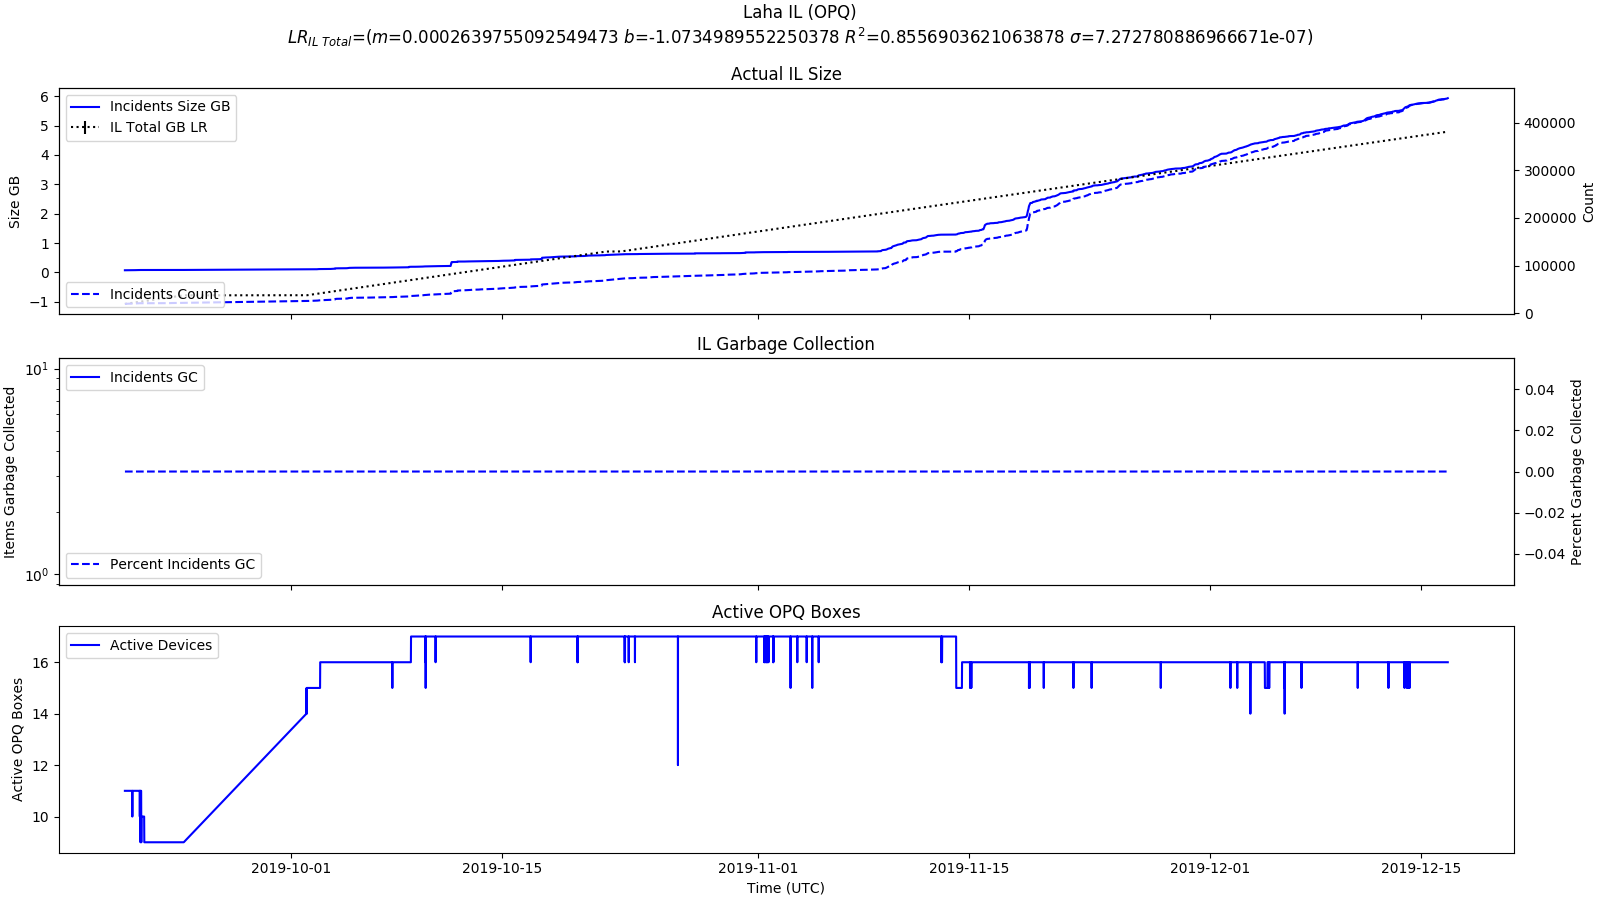
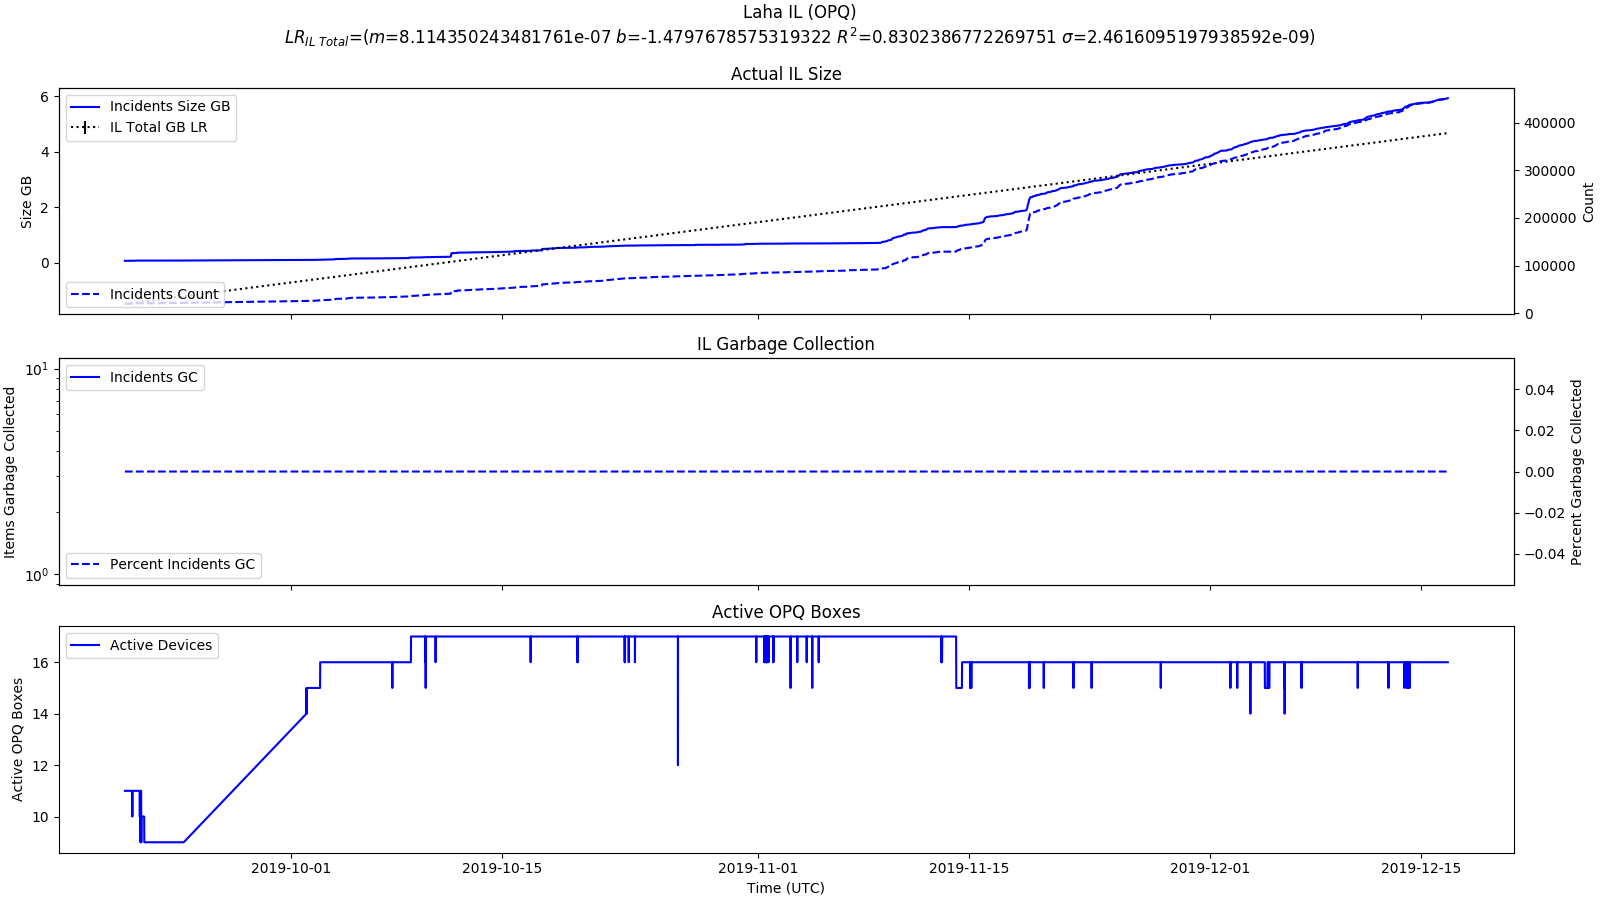
Fix linear regressions.

Changed region(s): [[0.0625, 0.1244, 0.8438, 0.3422], [0.1875, 0.0311, 0.8438, 0.0622], [0.0, 0.1867, 0.0312, 0.2489]]

diff --git a/plotting/opq/actual_data.py b/plotting/opq/actual_data.py
@@ -436,7 +436,7 @@ def plot_iml(laha_stat_dts: np.ndarray,
 
 
 def slope_intercept(slope: float, intercept: float) -> str:
-    return f"y = {slope} * t + {intercept}"
+    return f"y = {slope} * x + {intercept}"
 
 
 def plot_aml(laha_stat_dts: np.ndarray,
@@ -456,20 +456,20 @@ def plot_aml(laha_stat_dts: np.ndarray,
     ax: List[plt.Axes] = ax
 
     xs = np.array(list(map(lambda dt: dt.timestamp(), laha_stat_dts)))
+    xs = xs - xs[0]
     slope, intercept, r_value, p_value, std_err = stats.linregress(xs, total_gb)
-    print("aml", slope_intercept(slope, intercept))
+    print("aml", slope_intercept(slope, intercept), total_gb[0])
 
     fig.suptitle(f"Laha AML (OPQ)\n"
-                 f"$LR_{{AML\ Total}}$=($m$={slope} $b$={intercept} $R^2$={r_value**2} $\sigma$={std_err})")
-
-    print(slope, intercept, r_value, p_value, std_err)
+                 f"$LR_{{AML\ Total}}$=($m$={slope} $b$={intercept} $R^2$={r_value ** 2} $\sigma$={std_err})")
 
     # Size
     ax_size = ax[0]
     ax_size.plot(laha_stat_dts, measurements_gb, label="Measurements Size GB", color="blue")
     ax_size.plot(laha_stat_dts, trends_gb, label="Trends Size GB", color="green")
     ax_size.plot(laha_stat_dts, total_gb, label="AML Total GB", color="red")
-    ax_size.errorbar(laha_stat_dts, intercept + slope*xs, yerr=std_err, label="AML Total GB LR", color="black", linestyle=":")
+    ax_size.errorbar(laha_stat_dts, intercept + slope * xs, yerr=std_err, label="AML Total GB LR", color="black",
+                     linestyle=":")
     ax_size.set_ylabel("Size GB")
     ax_size.set_title("Actual AML Size")
     ax_size.legend(loc="upper left")
@@ -534,17 +534,19 @@ def plot_dl(laha_stat_dts: np.ndarray,
     fig: plt.Figure = fig
     ax: List[plt.Axes] = ax
 
-    xs = np.array(list(range(len(laha_stat_dts))))
+    xs = np.array(list(map(lambda dt: dt.timestamp(), laha_stat_dts)))
+    xs = xs - xs[0]
     slope, intercept, r_value, p_value, std_err = stats.linregress(xs, events_gb)
-    print("dl", slope_intercept(slope, intercept))
+    print("dl", slope_intercept(slope, intercept), events_gb[0])
 
     fig.suptitle("Laha DL (OPQ)\n"
-                 f"$LR_{{DL\ Total}}$=($m$={slope} $b$={intercept} $R^2$={r_value**2} $\sigma$={std_err})")
+                 f"$LR_{{DL\ Total}}$=($m$={slope} $b$={intercept} $R^2$={r_value ** 2} $\sigma$={std_err})")
 
     # Size
     ax_size = ax[0]
     ax_size.plot(laha_stat_dts, events_gb, label="Events Size GB", color="blue")
-    ax_size.errorbar(laha_stat_dts, intercept + slope*xs, yerr=std_err, label="DL Total GB LR", color="black", linestyle=":")
+    ax_size.errorbar(laha_stat_dts, intercept + slope * xs, yerr=std_err, label="DL Total GB LR", color="black",
+                     linestyle=":")
     ax_size.set_ylabel("Size GB")
     ax_size.set_title("Actual DL Size")
     ax_size.legend(loc="upper left")
@@ -599,17 +601,19 @@ def plot_il(laha_stat_dts: np.ndarray,
     fig: plt.Figure = fig
     ax: List[plt.Axes] = ax
 
-    xs = np.array(list(range(len(laha_stat_dts))))
+    xs = np.array(list(map(lambda dt: dt.timestamp(), laha_stat_dts)))
+    xs = xs - xs[0]
     slope, intercept, r_value, p_value, std_err = stats.linregress(xs, incidents_gb)
-    print("il", slope_intercept(slope, intercept))
+    print("il", slope_intercept(slope, intercept), incidents_gb[0])
 
     fig.suptitle("Laha IL (OPQ)\n"
-                 f"$LR_{{IL\ Total}}$=($m$={slope} $b$={intercept} $R^2$={r_value**2} $\sigma$={std_err})")
+                 f"$LR_{{IL\ Total}}$=($m$={slope} $b$={intercept} $R^2$={r_value ** 2} $\sigma$={std_err})")
 
     # Size
     ax_size = ax[0]
     ax_size.plot(laha_stat_dts, incidents_gb, label="Incidents Size GB", color="blue")
-    ax_size.errorbar(laha_stat_dts, intercept + slope*xs, yerr=std_err, label="IL Total GB LR", color="black", linestyle=":")
+    ax_size.errorbar(laha_stat_dts, intercept + slope * xs, yerr=std_err, label="IL Total GB LR", color="black",
+                     linestyle=":")
     ax_size.set_ylabel("Size GB")
     ax_size.set_title("Actual IL Size")
     ax_size.legend(loc="upper left")
@@ -666,12 +670,13 @@ def plot_laha(laha_stat_dts: np.ndarray,
     fig: plt.Figure = fig
     ax: plt.Axes = ax
 
-    xs = np.array(list(range(len(laha_stat_dts))))
+    xs = np.array(list(map(lambda dt: dt.timestamp(), laha_stat_dts)))
+    xs = xs - xs[0]
     slope, intercept, r_value, p_value, std_err = stats.linregress(xs, total_gb)
-    print("laha", slope_intercept(slope, intercept))
+    print("laha", slope_intercept(slope, intercept), total_gb[0])
 
     fig.suptitle("Laha IL (OPQ)\n"
-                 f"$LR_{{Laha\ Total}}$=($m$={slope} $b$={intercept} $R^2$={r_value**2} $\sigma$={std_err})")
+                 f"$LR_{{Laha\ Total}}$=($m$={slope} $b$={intercept} $R^2$={r_value ** 2} $\sigma$={std_err})")
 
     # Size
     size_ax = ax
@@ -680,7 +685,8 @@ def plot_laha(laha_stat_dts: np.ndarray,
     size_ax.plot(laha_stat_dts, dl_gb, label="DL Total")
     size_ax.plot(laha_stat_dts, il_gb, label="IL Total")
     size_ax.plot(laha_stat_dts, total_gb, label="Total")
-    size_ax.errorbar(laha_stat_dts, intercept + slope*xs, yerr=std_err, label="Laha Total GB LR", color="black", linestyle=":")
+    size_ax.errorbar(laha_stat_dts, intercept + slope * xs, yerr=std_err, label="Laha Total GB LR", color="black",
+                     linestyle=":")
 
     size_ax.set_yscale("log")
     size_ax.set_ylabel("Size GB")
@@ -876,7 +882,6 @@ def plot_dl_vs_no_tll(laha_dts: np.ndarray,
                       laha_events_gb: np.ndarray,
                       est_events_gb: np.ndarray,
                       out_dir: str) -> None:
-
     # Plot
     fig, ax = plt.subplots(3, 1, figsize=(16, 9), sharex="all", constrained_layout=True, sharey="all")
     fig: plt.Figure = fig
@@ -1243,7 +1248,7 @@ def plot_laha_vs_sim(laha_stat_dts: np.ndarray,
     fig.savefig(f"{out_dir}/actual_laha_vs_sim_opq.png")
 
 
-if __name__ == "__main__":
+def main():
     # mongo_client: pymongo.MongoClient = pymongo.MongoClient()
     # laha_stats: List[LahaStat] = get_laha_stats(mongo_client)
     # save_laha_stats(laha_stats, "laha_stats.pickle.db")
@@ -1297,7 +1302,8 @@ if __name__ == "__main__":
     # aligned_laha_measurements_bytes: np.ndarray = np.array(
     #         list(map(lambda measurement: measurement.size_bytes, aligned_laha_measurements)))
     # aligned_laha_measurements_gb: np.ndarray = aligned_laha_measurements_bytes / 1_000_000_000.0
-    # aligned_laha_measurements_gb_zero_offset: np.ndarray = aligned_laha_measurements_gb - aligned_laha_measurements_gb[
+    # aligned_laha_measurements_gb_zero_offset: np.ndarray = aligned_laha_measurements_gb -
+    # aligned_laha_measurements_gb[
     #     0]
     #
     # aligned_laha_trends: List[LahaMetric] = list(
@@ -1432,12 +1438,14 @@ if __name__ == "__main__":
     # aligned_laha_est_measurements_bytes: np.ndarray = np.array(
     #         list(map(lambda measurement: measurement.size_bytes, aligned_laha_est_measurements)))
     # aligned_laha_est_measurements_gb: np.ndarray = aligned_laha_est_measurements_bytes / 1_000_000_000.0
-    # aligned_laha_est_measurements_gb_zero_offset: np.ndarray = aligned_laha_est_measurements_gb - aligned_laha_est_measurements_gb[
+    # aligned_laha_est_measurements_gb_zero_offset: np.ndarray = aligned_laha_est_measurements_gb -
+    # aligned_laha_est_measurements_gb[
     #     0]
     #
     # aligned_laha_est_trends: List[LahaMetric] = list(
     #         map(lambda laha_est_stat: map_laha_metric(laha_est_stat, "trends"), aligned_laha_est_stats))
-    # aligned_laha_est_trends_bytes: np.ndarray = np.array(list(map(lambda trend: trend.size_bytes, aligned_laha_est_trends)))
+    # aligned_laha_est_trends_bytes: np.ndarray = np.array(list(map(lambda trend: trend.size_bytes,
+    # aligned_laha_est_trends)))
     # aligned_laha_est_trends_gb: np.ndarray = aligned_laha_est_trends_bytes / 1_000_000_000.0
     # aligned_laha_est_trends_gb_zero_offset: np.ndarray = aligned_laha_est_trends_gb - aligned_laha_est_trends_gb[0]
     #
@@ -1445,7 +1453,8 @@ if __name__ == "__main__":
     # aligned_laha_est_aml_total_gb_zero_offset: np.ndarray = aligned_laha_est_trends_gb_zero_offset + \
     #                                                     aligned_laha_est_measurements_gb_zero_offset
     #
-    # aligned_est_measurements_b: np.ndarray = np.array(list(map(lambda est_val: est_val.aml_measurements, aligned_est_values)))
+    # aligned_est_measurements_b: np.ndarray = np.array(list(map(lambda est_val: est_val.aml_measurements,
+    # aligned_est_values)))
     # aligned_est_measurements_gb: np.ndarray = aligned_est_measurements_b / 1_000_000_000.0
     #
     # aligned_est_trends_b: np.ndarray = np.array(list(map(lambda est_val: est_val.aml_trends, aligned_est_values)))
@@ -1457,7 +1466,8 @@ if __name__ == "__main__":
     # # Est DL
     # aligned_laha_est_events: List[LahaMetric] = list(
     #         map(lambda laha_est_stat: map_laha_metric(laha_est_stat, "events"), aligned_laha_est_stats))
-    # aligned_laha_est_events_bytes: np.ndarray = np.array(list(map(lambda event: event.size_bytes, aligned_laha_est_events)))
+    # aligned_laha_est_events_bytes: np.ndarray = np.array(list(map(lambda event: event.size_bytes,
+    # aligned_laha_est_events)))
     # aligned_laha_est_events_gb: np.ndarray = aligned_laha_est_events_bytes / 1_000_000_000.0
     # aligned_laha_est_events_gb_offset_zero: np.ndarray = aligned_laha_est_events_gb - aligned_laha_est_events_gb[0]
     #
@@ -1470,7 +1480,8 @@ if __name__ == "__main__":
     # aligned_laha_est_incidents_bytes: np.ndarray = np.array(
     #         list(map(lambda incident: incident.size_bytes, aligned_laha_est_incidents)))
     # aligned_laha_est_incidents_gb: np.ndarray = aligned_laha_est_incidents_bytes / 1_000_000_000.0
-    # aligned_laha_est_incidents_gb_offset_zero: np.ndarray = aligned_laha_est_incidents_gb - aligned_laha_est_incidents_gb[0]
+    # aligned_laha_est_incidents_gb_offset_zero: np.ndarray = aligned_laha_est_incidents_gb -
+    # aligned_laha_est_incidents_gb[0]
     #
     # aligned_est_incidents_total_b: np.ndarray = np.array(list(map(lambda est_val: est_val.il, aligned_est_values)))
     # aligned_est_incidents_total_gb: np.ndarray = aligned_est_incidents_total_b / 1_000_000_000.0
@@ -1480,12 +1491,14 @@ if __name__ == "__main__":
     #                                     aligned_laha_est_events_gb + aligned_laha_est_incidents_gb
     # aligned_laha_est_total_gb_offset_zero: np.ndarray = aligned_laha_est_total_gb - aligned_laha_est_total_gb[0]
     #
-    # aligned_est_total_gb: np.ndarray = aligned_est_iml_total_gb + aligned_est_aml_total_gb + aligned_est_events_total_gb \
+    # aligned_est_total_gb: np.ndarray = aligned_est_iml_total_gb + aligned_est_aml_total_gb +
+    # aligned_est_events_total_gb \
     #                             + aligned_est_incidents_total_gb
     #
     # aligned_laha_est_total_gb_sans_iml: np.ndarray = aligned_laha_est_aml_total_gb + \
     #                                         aligned_laha_est_events_gb + aligned_laha_est_incidents_gb
-    # aligned_laha_est_total_gb_offset_zero_sans_iml: np.ndarray = aligned_laha_est_total_gb_sans_iml - aligned_laha_est_total_gb_sans_iml[0]
+    # aligned_laha_est_total_gb_offset_zero_sans_iml: np.ndarray = aligned_laha_est_total_gb_sans_iml -
+    # aligned_laha_est_total_gb_sans_iml[0]
     #
     # aligned_est_total_gb_sans_iml: np.ndarray = aligned_est_aml_total_gb + aligned_est_events_total_gb \
     #                                    + aligned_est_incidents_total_gb
@@ -1614,3 +1627,7 @@ if __name__ == "__main__":
     #
     # # System resource plots
     # plot_system_resources(laha_stats, out_dir)
+
+
+if __name__ == "__main__":
+    main()

diff --git a/src/results.tex b/src/results.tex
@@ -12,7 +12,7 @@ All results in this section were gathered directly from the OPQ and Lokahi netwo
 
 System utilization metrics were collected during the deployment of the OPQ DSN. The metrics that were collected are provided in the description of the SystemStatsPlugin (Section~\ref{lbl:SystemStatsPlugin}). In summary, I collected metrics on plugin utilization, system resource utilization, garbage collection, tunable Laha parameters, and storage requirements for each level within the Laha hierarchy.
 
-There were several schema changes to the stored metric data, with the most significant change taking place on September 20, 2019. For these results, I only used metrics collected after this date as they contain the most useful data.
+There were several schema changes to the stored metric data, with the most significant change taking place on September 20, 2019. For these results, I only used metrics collected after this date as they contain the most useful data. Because of this, all actual data measurements have an offset that is greater than zero. That is, there was already data stored at each level before I started collecting detailed metrics. This offset is removed from the actual data when comparing to the theoretical data bounds in order to provide a more accurate comparison between the series.
 
 Further, the astute reader will notice that there are often times more than 15 Boxes in the metric data when only 15 Boxes were deployed for the UHM deployment. This is attributed to the fact that several Boxes were sent to the Electric Power Research Institute (EPRI) to evaluate if our Boxes could be used as a test bed for their power quality analysis needs. The metrics collected by Laha are collected for the total set of all Boxes sending to OPQ, and thus, also sometimes include metrics from the Boxes that EPRI are evaluating.
 
@@ -57,8 +57,15 @@ The bottom panel displays the number of active OPQ Boxes over time. It's possibl
 Equation~\ref{eq:aml_si} provides the best fit linear regression for the total AML size in GB with an $R^2$ value = 0.98.
 
 \begin{equation}
-    y = 1.3114190030697152e-07 * x + -205.0594231185633
+    y = 1.3114190030697152e-07 * x + 0.6987665459751351
     \label{eq:aml_si}
+\end{equation}
+
+This linear equation can be used to estimate the total AML data stored per OPQ Box over a given time period $x$. Simply substitute $x$ with the duration in seconds in the above equation, subtract the offset, and then divide by the mean number of active OPQ Boxes (15). Equation~\ref{eq:aml_si_ex} can be used to find the estimated AML size per OPQ Box over a duration of one month (28 days or 2419200 seconds) as follows:
+
+\begin{equation}
+    y = \frac{(1.3114190030697152e-07 * 2419200 + 0.6987665459751351) - 0.58918365}{15}
+    \label{eq:aml_si_ex}
 \end{equation}
 
 I will compare this result to the theoretical results in following sections.
@@ -82,11 +89,18 @@ The middle panel shows the garbage collection statistics for the DL. Of note is 
 
 The bottom panel shows the number of active OPQ Boxes sending data over time.
 
-Equation~\ref{eq:dl_si} provides the best fit linear regression for the total DL size in GB with an $R^2$ value = 0.87.
+Equation~\ref{eq:dl_si} provides the best fit linear regression for the total DL size in GB with an $R^2$ value = 0.90.
 
 \begin{equation}
-    y = 0.0015753666595407743 * x + 35.36203597974968
+    y = 5.0185766274104244e-06 * x + 32.21305865745437
     \label{eq:dl_si}
+\end{equation}
+
+This linear equation can be used to estimate the total DL data stored per OPQ Box over a given time period $x$. Simply substitute $x$ with the duration in seconds in the above equation, subtract the offset, and then divide by the mean number of active OPQ Boxes (15). Equation~\ref{eq:dl_si_ex} can be used to find the estimated DL size per OPQ Box over a duration of one month (28 days or 2419200 seconds) as follows:
+
+\begin{equation}
+    y = \frac{(5.0185766274104244e-06 * 2419200 + 32.21305865745437) - 19.131860232}{15}
+    \label{eq:dl_si_ex}
 \end{equation}
 
 I will compare this result to the theoretical results in following sections.
@@ -104,7 +118,7 @@ Figure~\ref{fig:actual_il_opq} shows the IL growth for the OPQ network over a pe
     \label{fig:actual_il_opq}
 \end{figure}
 
-The top panel shows the growth of the IL with the size in GB on the left Y-axis and the number of Incidents on the right Y-axis. Over a period of two and a half months, the IL of OPQ has grown to near 6GB containing over 400,000 Incidents.
+The top panel shows the growth of the IL with the size in GB on the left Y-axis and the number of Incidents on the right Y-axis. Over a period of two and a half months, the IL of OPQ has grown to near 6GB containing over 400,000 Incidents. The update in Incidents around mid-November is due to the fact that I performed maintenance on many of my Incident classification algorithms and also added a slew of Incident plugins. This also caused our linear regression fit to be the least accurate of any of the Laha levels.
 
 The middle panel shows the garbage collection statistics for the IL. You'll note that the GC statistics are flat lining at 0. This is due to the fact that Incidents are given a default TTL of 1 year and this deployment has only been collecting data for 3 months.
 
@@ -112,11 +126,18 @@ This brings up the question, is a TTL of 1 year for Incidents too long? It's cle
 
 The bottom panel shows the number of active OPQ Boxes sending data over time.
 
-Equation~\ref{eq:il_si} provides the best fit linear regression for the total IL size in GB with an $R^2$ value = 0.86.
+Equation~\ref{eq:il_si} provides the best fit linear regression for the total IL size in GB with an $R^2$ value = 0.83.
 
 \begin{equation}
-    y = 0.0002639755092549473 * x + -1.0734989552250378
+    y = 8.114350243481761e-07 * x + -1.4797678575319322
     \label{eq:il_si}
+\end{equation}
+
+This linear equation can be used to estimate the total IL data stored per OPQ Box over a given time period $x$. Simply substitute $x$ with the duration in seconds in the above equation, subtract the offset, and then divide by the mean number of active OPQ Boxes (15). Equation~\ref{eq:il_si_ex} can be used to find the estimated IL size per OPQ Box over a duration of one month (28 days or 2419200 seconds) as follows:
+
+\begin{equation}
+    y = \frac{(8.114350243481761e-07 * 2419200 + -1.4797678575319322) - 0.072925535}{15}
+    \label{eq:il_si_ex}
 \end{equation}
 
 I will compare this result to the theoretical results in following sections.
@@ -143,11 +164,18 @@ We can observe that the IML level converges to the smallest of the levels due to
 
 The IL starts out small, but as Incidents are identified, the IL surpasses the IML at about 1 month and surpasses the AML in size at about 2 months. The Detections level is the largest and this makes sense since we treat Detections relatively cheaply and they contain windows of data that are generally larger than the signal of interest if there even is a signal of interest at all.
 
-Equation~\ref{eq:laha_si} provides the best fit linear regression for the total Laha size in GB with an $R^2$ value = 0.91.
+Equation~\ref{eq:laha_si} provides the best fit linear regression for the total Laha size in GB with an $R^2$ value = 0.93.
 
 \begin{equation}
-    y = 0.0018820483597437351 * x + 35.400368198840155
+    y = 5.965634579947276e-06 * x + 31.761503174631905
     \label{eq:laha_si}
+\end{equation}
+
+This linear equation can be used to estimate the total Laha data stored per OPQ Box over a given time period $x$. Simply substitute $x$ with the duration in seconds in the above equation, subtract the offset, and then divide by the mean number of active OPQ Boxes (15). Equation~\ref{eq:laha_si_ex} can be used to find the estimated Laha size per OPQ Box over a duration of one month (28 days or 2419200 seconds) as follows:
+
+\begin{equation}
+    y = \frac{(5.965634579947276e-06 * 2419200 + 31.761503174631905) - 20.031569417}{15}
+    \label{eq:laha_si_ex}
 \end{equation}
 
 I will compare this result to the theoretical results in following sections.
@@ -322,6 +350,8 @@ The large offsets in the simulated DL and IL data create the overall trends in t
 \paragraph{Discussion on Estimation Versus Simulation}
 
 I compared actual data for each level in the Laha hierarchy to both estimated bounds and simulated bounds. Both approaches show promising results for certain levels. The estimated bounds are better suited for examining the DL, IL, and PL whereas the simulated bounds are better for examining the IML and AML. The estimated bounds include an implicit TTL parameter where the simulated bounds actually performs TTL in the simulation.
+
+One thing that the simulation provides is the ability to tune many of the underlying simulation parameters. The estimated data provides parameters scraped from the database and if a fairly simply estimation. The simulation allows individual parameters to be tuned providing the means to alter any part of a simulated Laha DSN. This is something that is not easily accomlished only using estimation methods.
 
 Future work should look at expanding the collection of parameters saved when items are garbage collected. This would allow better estimated bounds without TTL and provide better parameters to the simulation.
 
